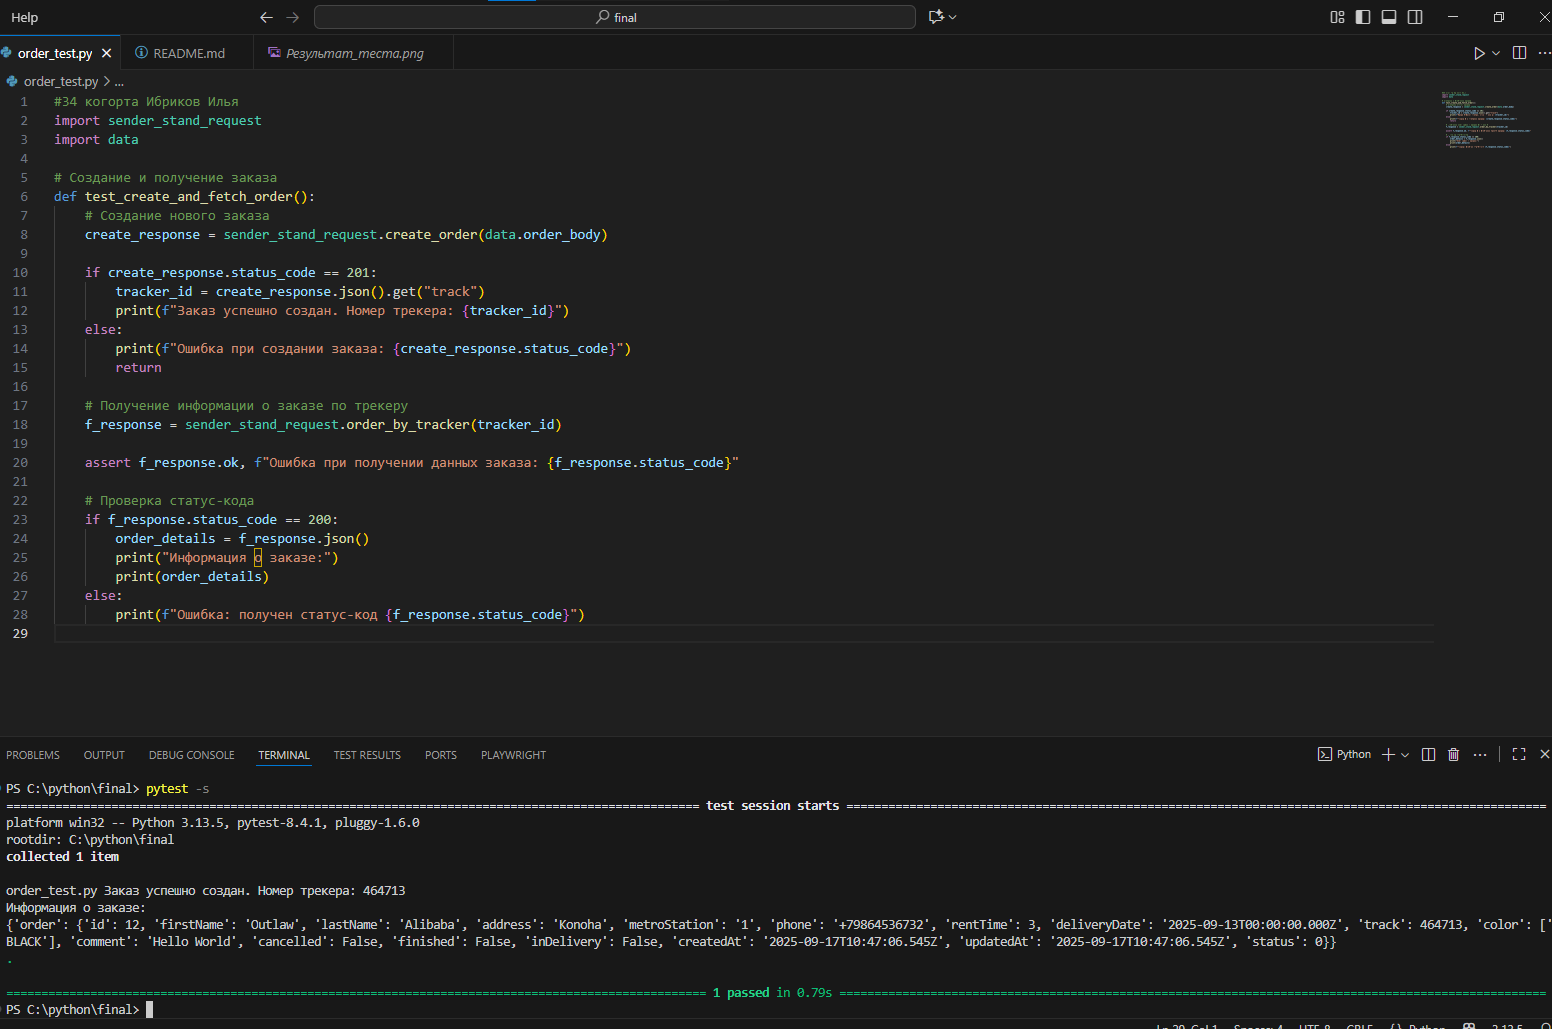
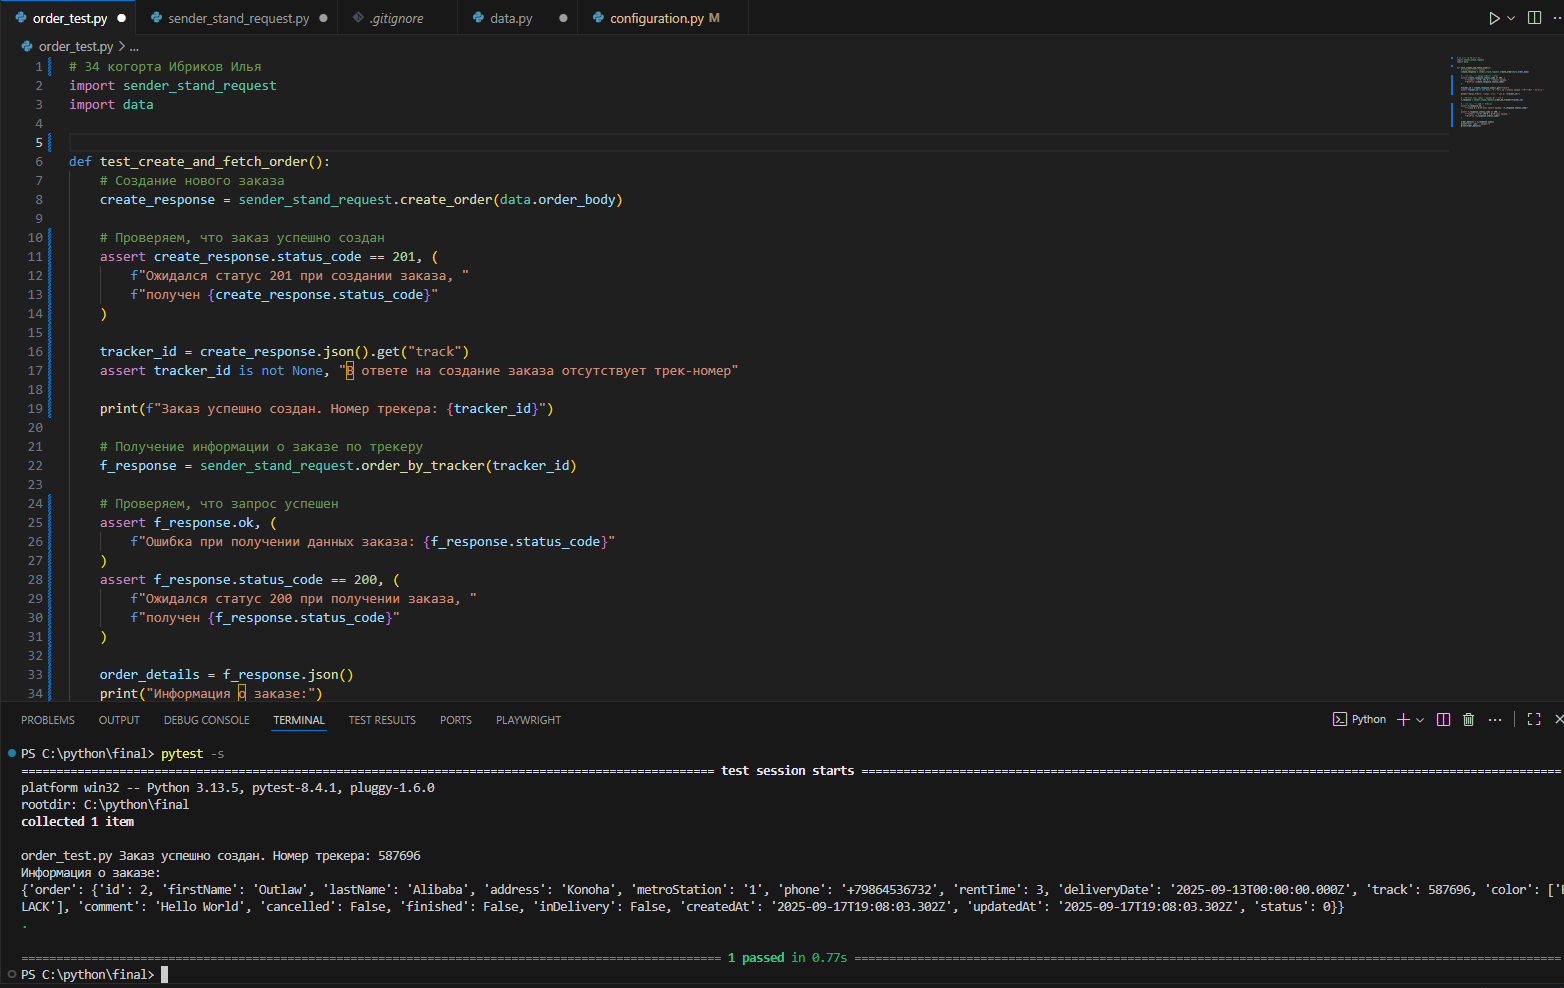
double

diff --git a/order_test.py b/order_test.py
@@ -1,28 +1,35 @@
-#34 когорта Ибриков Илья
+# 34 когорта Ибриков Илья
 import sender_stand_request
 import data
 
-# Создание и получение заказа
+
 def test_create_and_fetch_order():
     # Создание нового заказа
     create_response = sender_stand_request.create_order(data.order_body)
 
-    if create_response.status_code == 201:
-        tracker_id = create_response.json().get("track")
-        print(f"Заказ успешно создан. Номер трекера: {tracker_id}")
-    else:
-        print(f"Ошибка при создании заказа: {create_response.status_code}")
-        return
+    # Проверяем, что заказ успешно создан
+    assert create_response.status_code == 201, (
+        f"Ожидался статус 201 при создании заказа, "
+        f"получен {create_response.status_code}"
+    )
+
+    tracker_id = create_response.json().get("track")
+    assert tracker_id is not None, "В ответе на создание заказа отсутствует трек-номер"
+
+    print(f"Заказ успешно создан. Номер трекера: {tracker_id}")
 
     # Получение информации о заказе по трекеру
     f_response = sender_stand_request.order_by_tracker(tracker_id)
 
-    assert f_response.ok, f"Ошибка при получении данных заказа: {f_response.status_code}"
+    # Проверяем, что запрос успешен
+    assert f_response.ok, (
+        f"Ошибка при получении данных заказа: {f_response.status_code}"
+    )
+    assert f_response.status_code == 200, (
+        f"Ожидался статус 200 при получении заказа, "
+        f"получен {f_response.status_code}"
+    )
 
-    # Проверка статус-кода
-    if f_response.status_code == 200:
-        order_details = f_response.json()
-        print("Информация о заказе:")
-        print(order_details)
-    else:
-        print(f"Ошибка: получен статус-код {f_response.status_code}")
+    order_details = f_response.json()
+    print("Информация о заказе:")
+    print(order_details)

diff --git a/configuration.py b/configuration.py
@@ -1,3 +1,3 @@
-URL_SERVICE = "https://01ebe150-83f7-46e3-9dd9-4d7a870fce71.serverhub.praktikum-services.ru"
+URL_SERVICE = "https://b72e7563-caf0-49cf-93ea-7259d0eec178.serverhub.praktikum-services.ru"
 CREATE_ORDERS = "/api/v1/orders"
 ORDER_TRACK = "/api/v1/orders/track"
